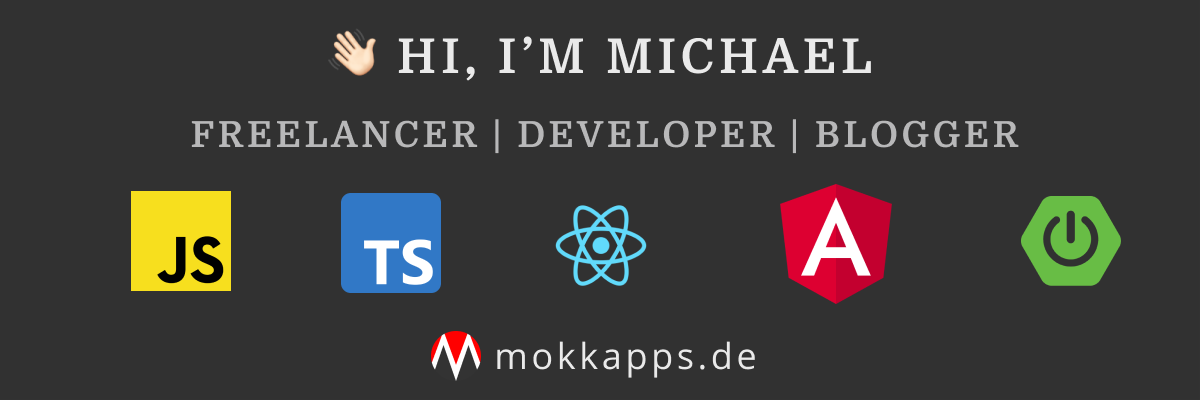
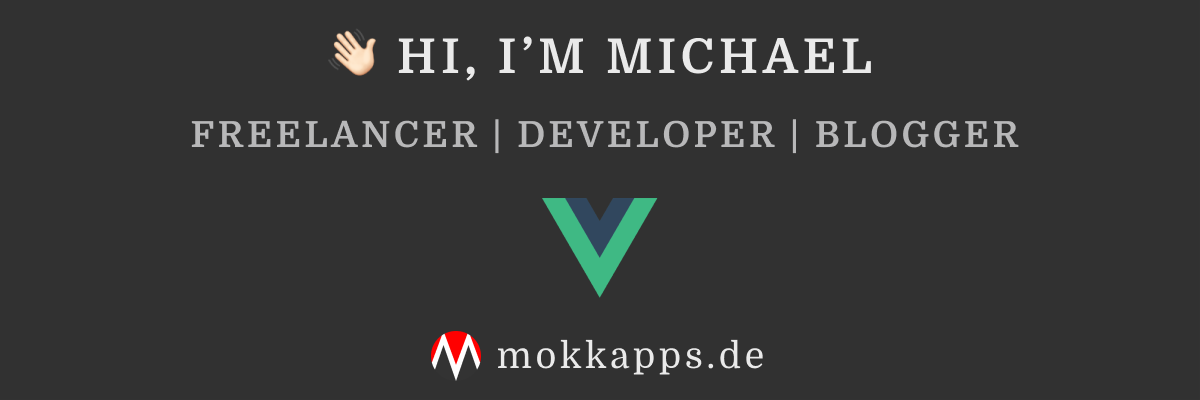
chore: updated header image

diff --git a/index.js b/index.js
@@ -54,9 +54,6 @@ md.use(emoji);
 
   const text = `${headerImage}\n\n
   ${twitterBadge} ${linkedInBadge} ${instagramBadge} ${youTubeBadge} ${mediumBadge} ${devToBadge}\n\n
-  [:arrow_right: Check out my website](${websiteUrl})\n\n
-  [:arrow_right: Check out my weekly Vue newsletter](${newsletterUrl})\n\n
-  ${buyMeACoffeeButton}\n\n
   ## Latest Blog Posts\n
   ${blogPosts}\n
   ## Latest Newsletter Issues\n
@@ -64,7 +61,8 @@ md.use(emoji);
   ## Latest Tweets\n
   [![github-readme-twitter](https://github-readme-twitter.gazf.vercel.app/api?id=mokkapps&layout=wide)](https://twitter.com/mokkapps)\n
   ## GitHub Stats\n
-  ![GitHub Stats](https://github-readme-stats.vercel.app/api?username=mokkapps&show_icons=true)`;
+  ![GitHub Stats](https://github-readme-stats.vercel.app/api?username=mokkapps&show_icons=true)\n\n
+  ${buyMeACoffeeButton}`;
 
   const result = md.render(text);
 
